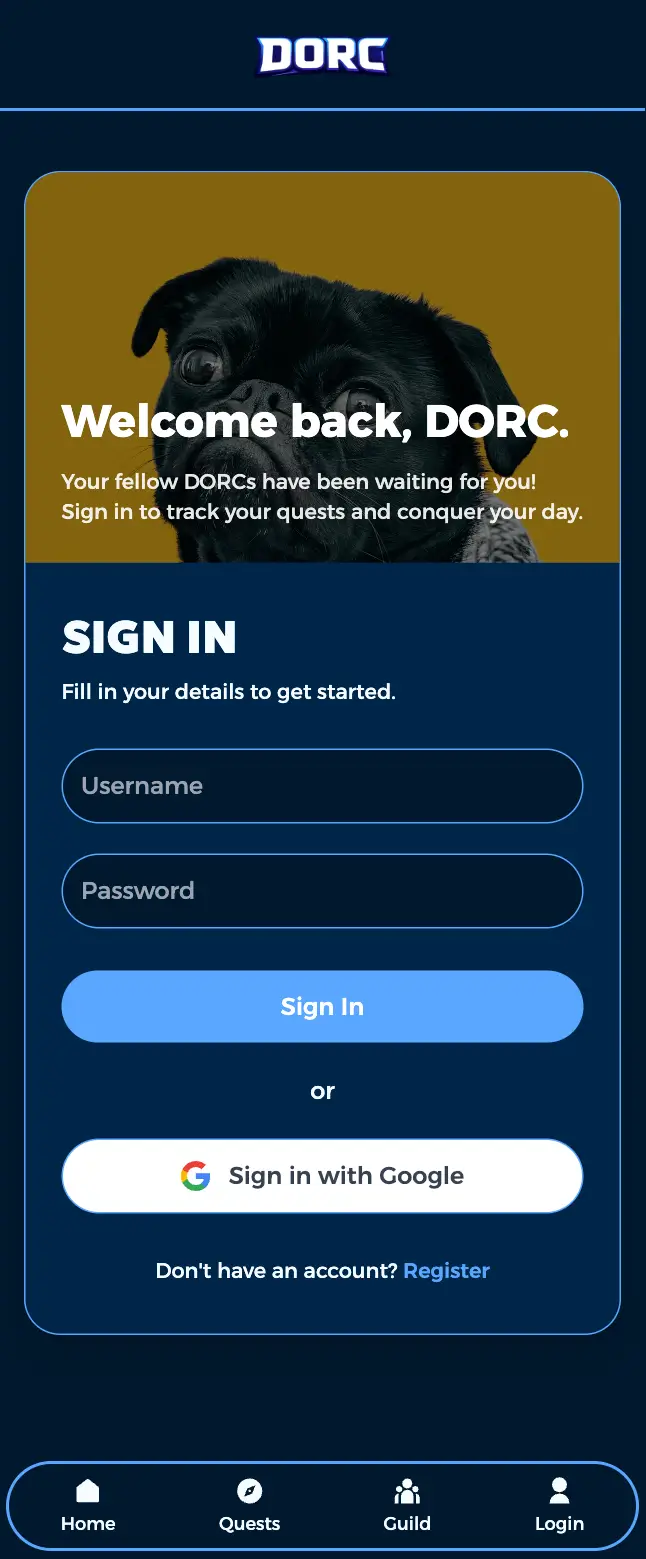
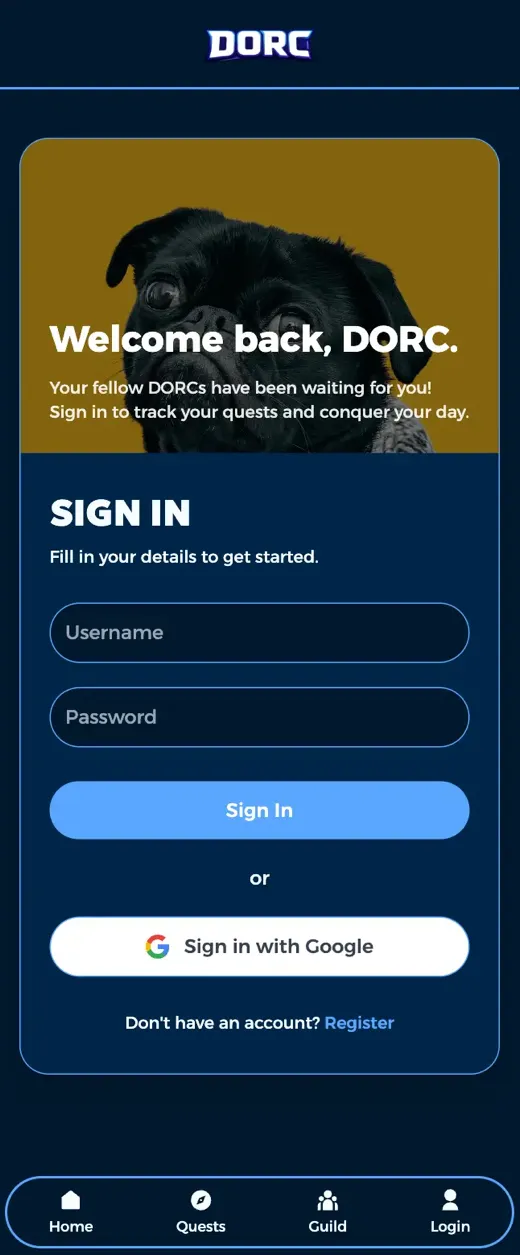
perf: resize mobile project screenshots to displayed size

Changed region(s): [[0.0615, 0.9944, 0.9231, 1.0]]

diff --git a/index.html b/index.html
@@ -133,7 +133,7 @@
                         <span class="url">//livescape.tv</span>
                     </div>
                     <picture>
-                        <source srcset="images/my-work/livescape-mobile.webp" media="(max-width: 720px)" width="780" height="1688">
+                        <source srcset="images/my-work/livescape-mobile.webp" media="(max-width: 720px)" width="520" height="1125">
                         <img src="images/my-work/livescape-screenshot.webp" alt="LiveScape screenshot" width="3024" height="1949" loading="lazy">
                     </picture>
                 </a>
@@ -160,7 +160,7 @@
                         <span class="url">//granted</span>
                     </div>
                     <picture>
-                        <source srcset="images/my-work/granted-mobile.webp" media="(max-width: 720px)" width="780" height="1688">
+                        <source srcset="images/my-work/granted-mobile.webp" media="(max-width: 720px)" width="520" height="1125">
                         <img src="images/my-work/granted-screenshot.webp" alt="Granted screenshot" width="3022" height="1948" loading="lazy">
                     </picture>
                 </a>
@@ -189,7 +189,7 @@
                         <span class="url">//dorc-app</span>
                     </div>
                     <picture>
-                        <source srcset="images/my-work/dorc-mobile.webp" media="(max-width: 720px)" width="646" height="1559">
+                        <source srcset="images/my-work/dorc-mobile.webp" media="(max-width: 720px)" width="520" height="1255">
                         <img src="images/my-work/dorc-screenshot.webp" alt="DORC screenshot" width="3024" height="1828" loading="lazy">
                     </picture>
                 </a>
@@ -218,7 +218,7 @@
                         <span class="url">//wild-rose-foundry</span>
                     </div>
                     <picture>
-                        <source srcset="images/my-work/wildrose-foundry-mobile.webp" media="(max-width: 720px)" width="780" height="1688">
+                        <source srcset="images/my-work/wildrose-foundry-mobile.webp" media="(max-width: 720px)" width="520" height="1125">
                         <img src="images/my-work/wildrose-foundry-screenshot.webp" alt="Wild Rose Foundry screenshot" width="2696" height="1738" loading="lazy">
                     </picture>
                 </a>
@@ -245,7 +245,7 @@
                         <span class="url">//shangri-la</span>
                     </div>
                     <picture>
-                        <source srcset="images/my-work/shangri-la-mobile.webp" media="(max-width: 720px)" width="640" height="1385">
+                        <source srcset="images/my-work/shangri-la-mobile.webp" media="(max-width: 720px)" width="520" height="1125">
                         <img src="images/my-work/shangri-la-screenshot.webp" alt="Shangri La screenshot" width="1280" height="825" loading="lazy">
                     </picture>
                 </a>
